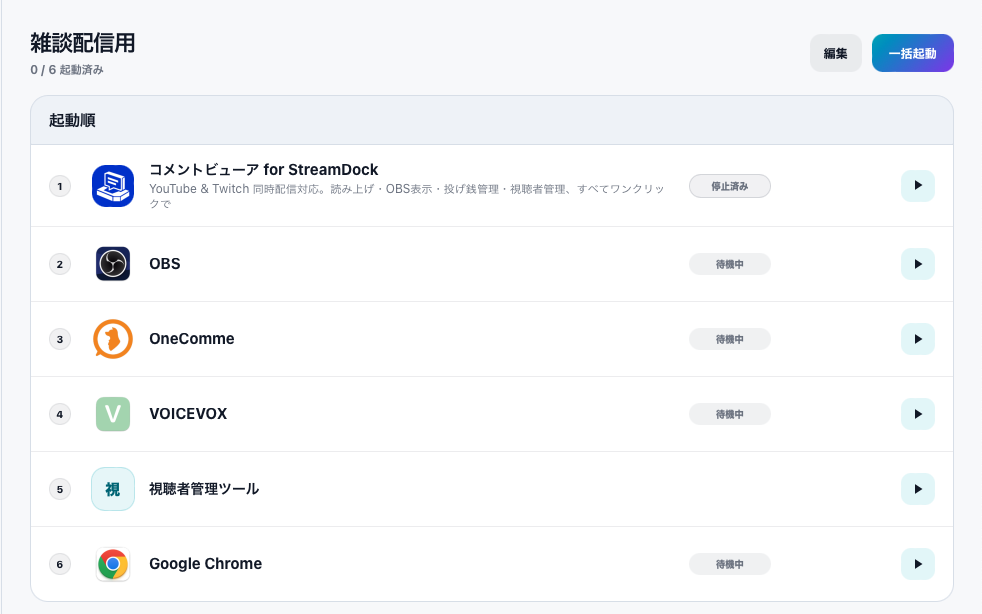
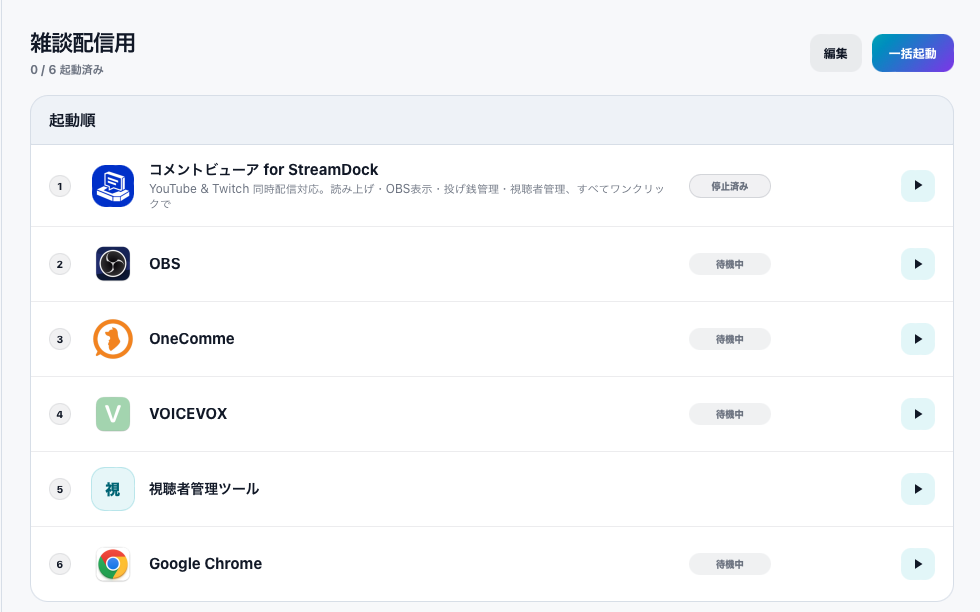
fix:ヒーロー画像のライトとダークで寸法が違う問題を修正
ライト 982x614、ダーク 980x612 と 2px ずれていた。<picture> は両方に
同じ width / height を渡すので、ダーク側だけ縦横比が食い違い
（1.5993 対 1.6013）、わずかに引き伸ばされて表示されていた。

ライトを 980x612 に切り詰めて揃えた（右端と下端を 2px 落とす）。
⚠ 素材を差し替えるときは、ライトとダークを必ず同じ寸法で書き出すこと。

diff --git a/src/sections/Hero.tsx b/src/sections/Hero.tsx
@@ -35,8 +35,8 @@ export function Hero() {
         <div className={styles.visual}>
           <Screenshot
             name="hero-preset"
-            width={982}
-            height={614}
+            width={980}
+            height={612}
             dark
             priority
             alt="StreamDock のプリセット画面。「雑談配信用」というプリセットに、コメントビューア・OBS・OneComme・VOICEVOX・視聴者管理ツール・Google Chrome の 6 つが起動順に並んでいる。右上の「一括起動」ボタンでまとめて起動できる。"
